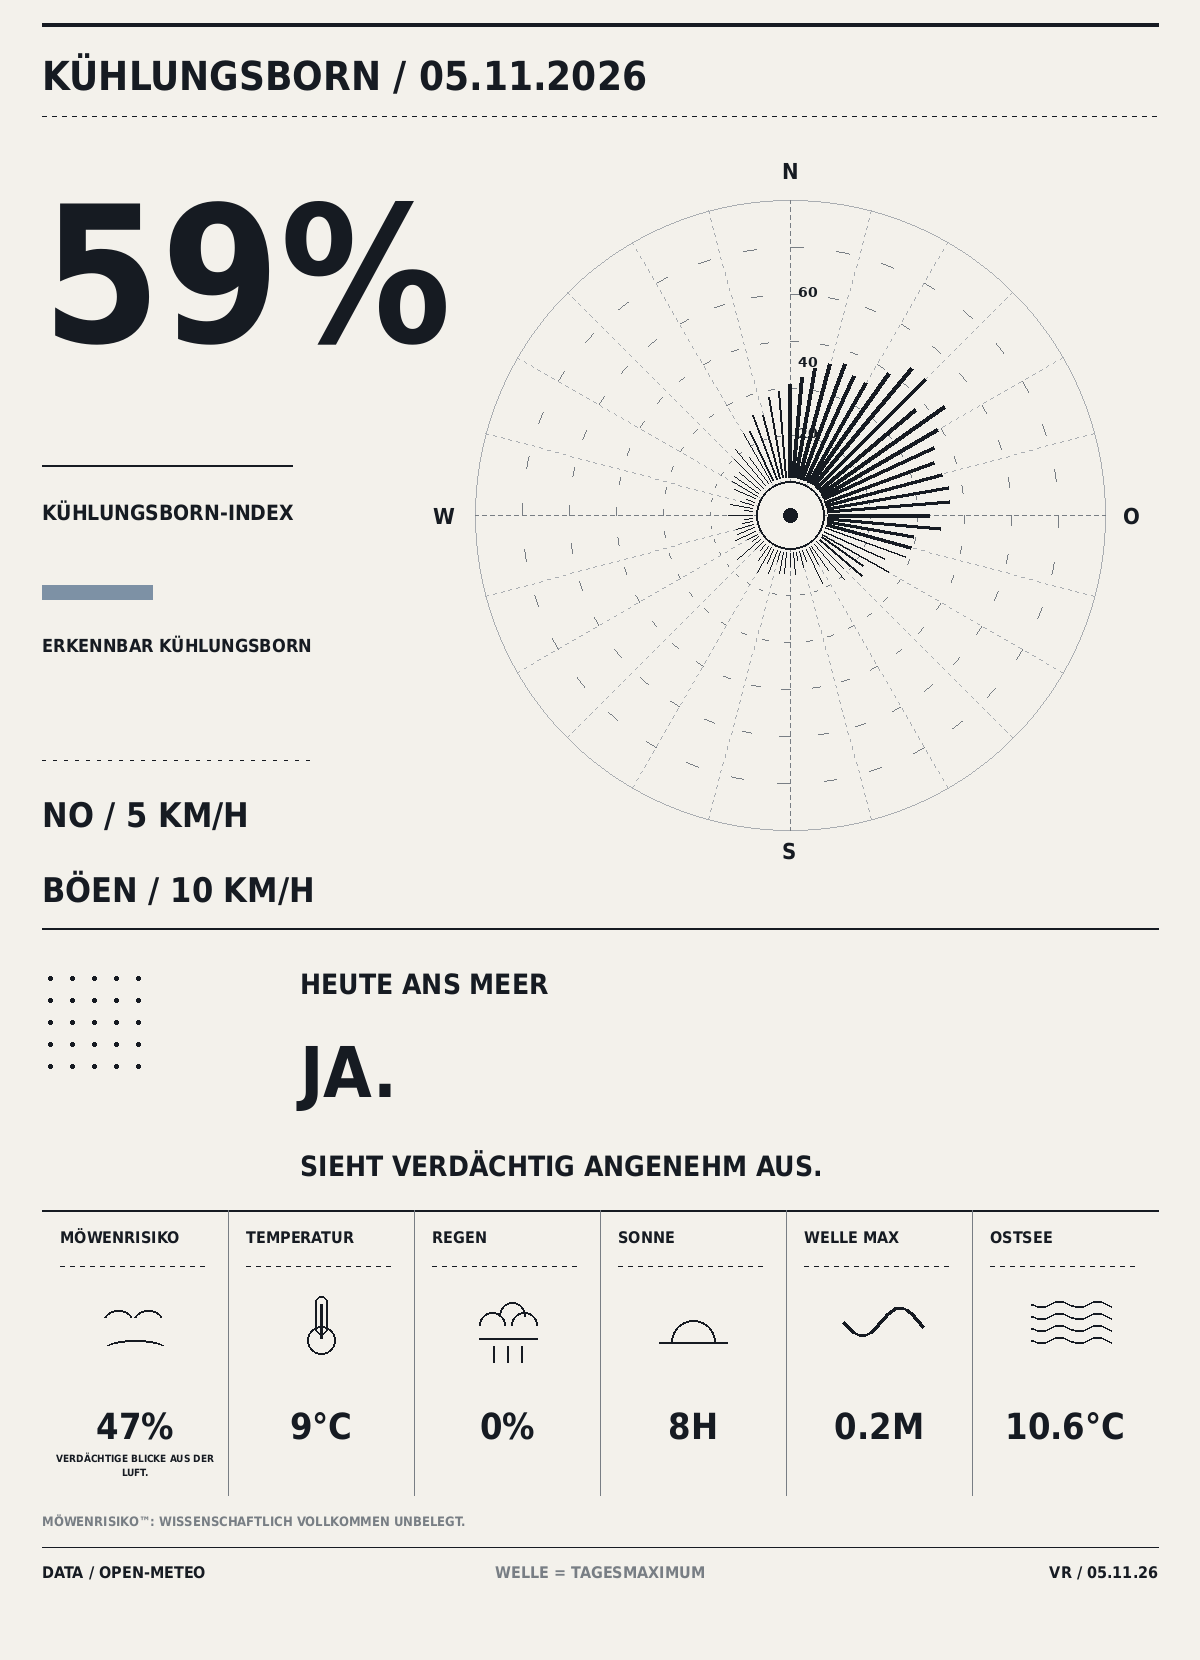
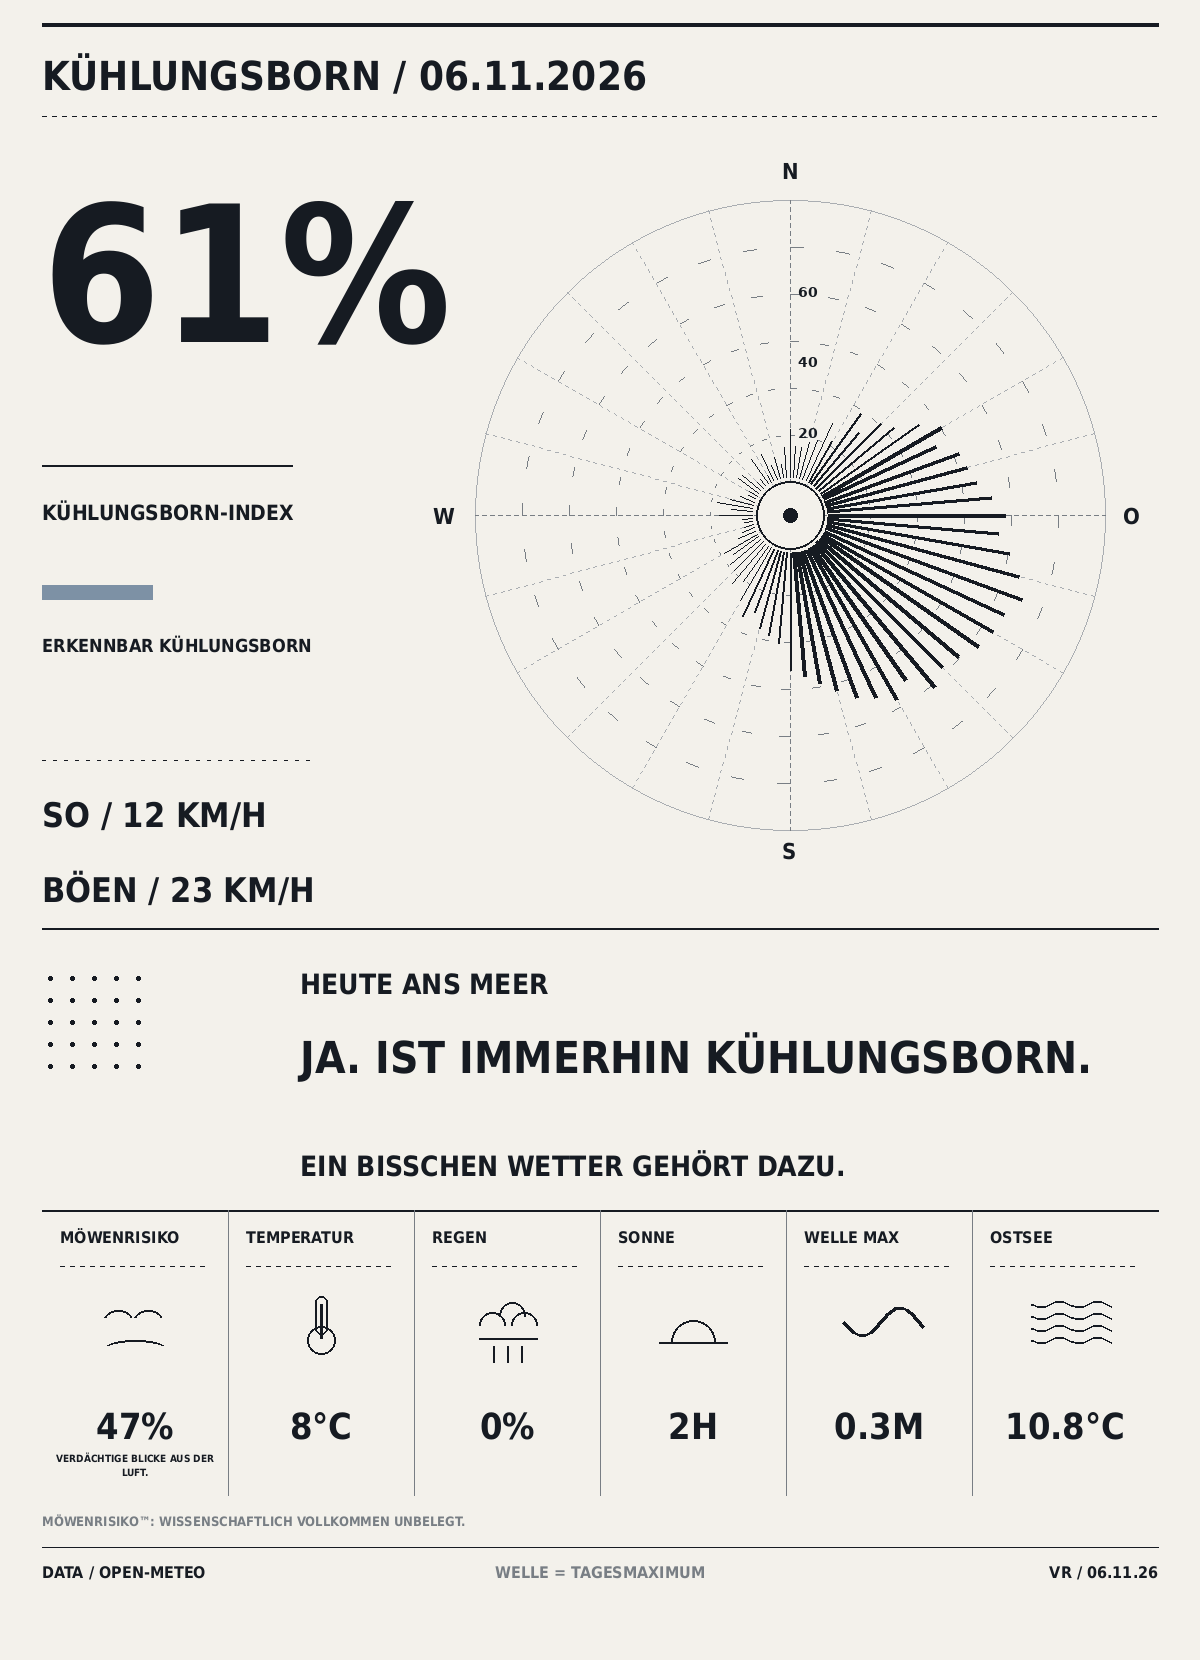
Add daily Kühlungsborn render

diff --git a/docs/index.html b/docs/index.html
@@ -122,20 +122,34 @@
     <section class="hero">
         <a
             class="card"
-            href="archive/2026-11-05.png"
+            href="archive/2026-11-06.png"
         >
             <img
-                src="archive/2026-11-05.png"
-                alt="Kühlungsborn heute 05.11.2026"
+                src="archive/2026-11-06.png"
+                alt="Kühlungsborn heute 06.11.2026"
             >
             <div class="meta">
-                NEUESTE AUSGABE / 05.11.2026
+                NEUESTE AUSGABE / 06.11.2026
             </div>
         </a>
     </section>
     
 
     <section class="grid">
+        
+        <a
+            class="card"
+            href="archive/2026-11-06.png"
+        >
+            <img
+                src="archive/2026-11-06.png"
+                alt="Kühlungsborn heute 06.11.2026"
+                loading="lazy"
+            >
+            <div class="meta">
+                06.11.2026
+            </div>
+        </a>
         
         <a
             class="card"
